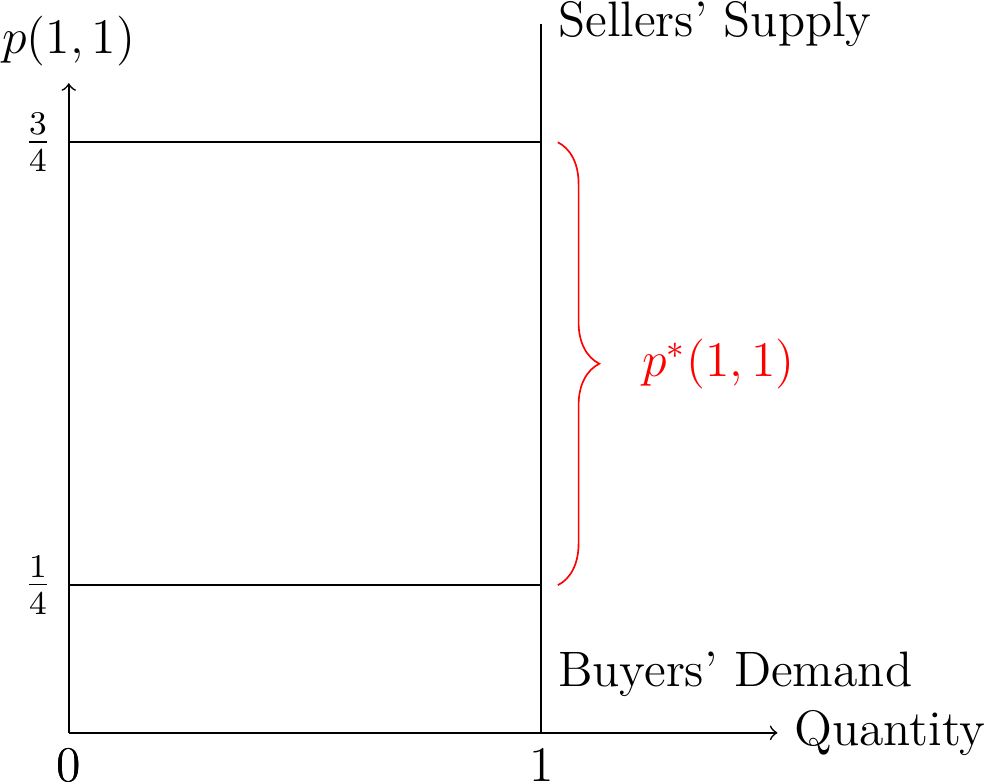
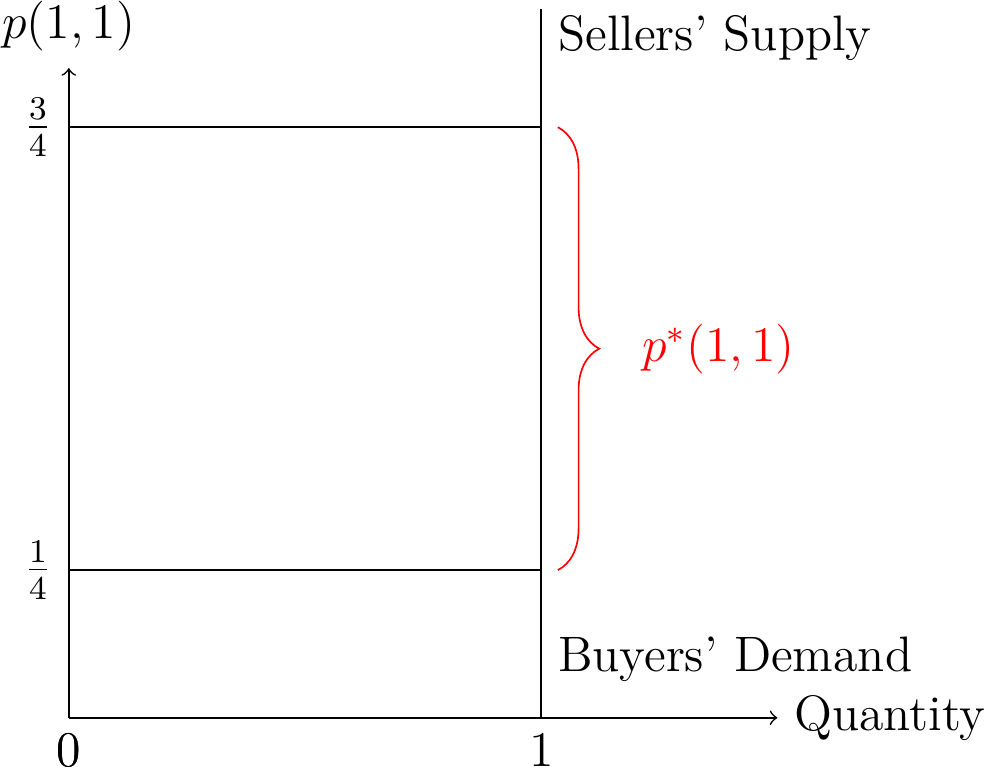
m e

diff --git a/docs/slides/OleMiss2019.html b/docs/slides/OleMiss2019.html
@@ -394,9 +394,9 @@ Uniqueness Proof
 
 --
 
-- Contradiction proves one side does not choose `\((0,0)\)`.  If one side does not, market clearing implies the other side does not
+- Contradiction proves one side does not choose `\((0,0)\)`. And if one side does not, market clearing requires that the other side does not
 
-- Same argumnet holds for `\((1,0)\)` and `\((0,1)\)`
+- Same argument holds for `\((1,0)\)` and `\((0,1)\)`
 
 ---
 Supply and Demand for `\((1,1)\)`
@@ -421,9 +421,21 @@ Step 2: For any `\(\epsilon &gt;&gt; 0\)`, `\((1,1)\)` can be sustained as an eq
 &lt;!--- - At that price, everyone wants to invest if they can match ---&gt;
 &lt;!---  - `\(\text{min}\left\{1- \epsilon(b), 1- \epsilon(s)\right\}\)` invest on both sides ---&gt;
 
+---
+background-image: url(https://briancalbrecht.github.io/docs/slides/images/jmp/tikz_L.png)
+background-size:contain
 
-???
-Draw demand and supply for (1,1) market
+---
+background-image: url(https://briancalbrecht.github.io/docs/slides/images/jmp/tikz_M.png)
+background-size:contain
+
+---
+background-image: url(https://briancalbrecht.github.io/docs/slides/images/jmp/tikz_N.png)
+background-size:contain
+
+
+
+
 ---
 .center[![](https://briancalbrecht.github.io/docs/slides/images/jmp/tikz_I.png)]
 

diff --git a/docs/slides/tikz_charts/jmp.tex b/docs/slides/tikz_charts/jmp.tex
@@ -398,7 +398,7 @@ $ $
 	
 	\draw (0,5/4)--(2,5/4)--(2,6);
 	
-	\node [right] at (2,6) {Sellers' Supply};
+	\node [right] at (2,5.75) {Sellers' Supply};
 	
 	\node [left] at (0,5/4) {$\frac{1}{4}$};
 	
@@ -431,7 +431,7 @@ $ $
 	
 	\draw (0,5/4)--(4,5/4)--(4,6);
 	
-	\node [right] at (4,6) {Sellers' Supply};
+	\node [right] at (4,5.75) {Sellers' Supply};
 	
 	\node [left] at (0,5/4) {$\frac{1}{4}$};
 	
